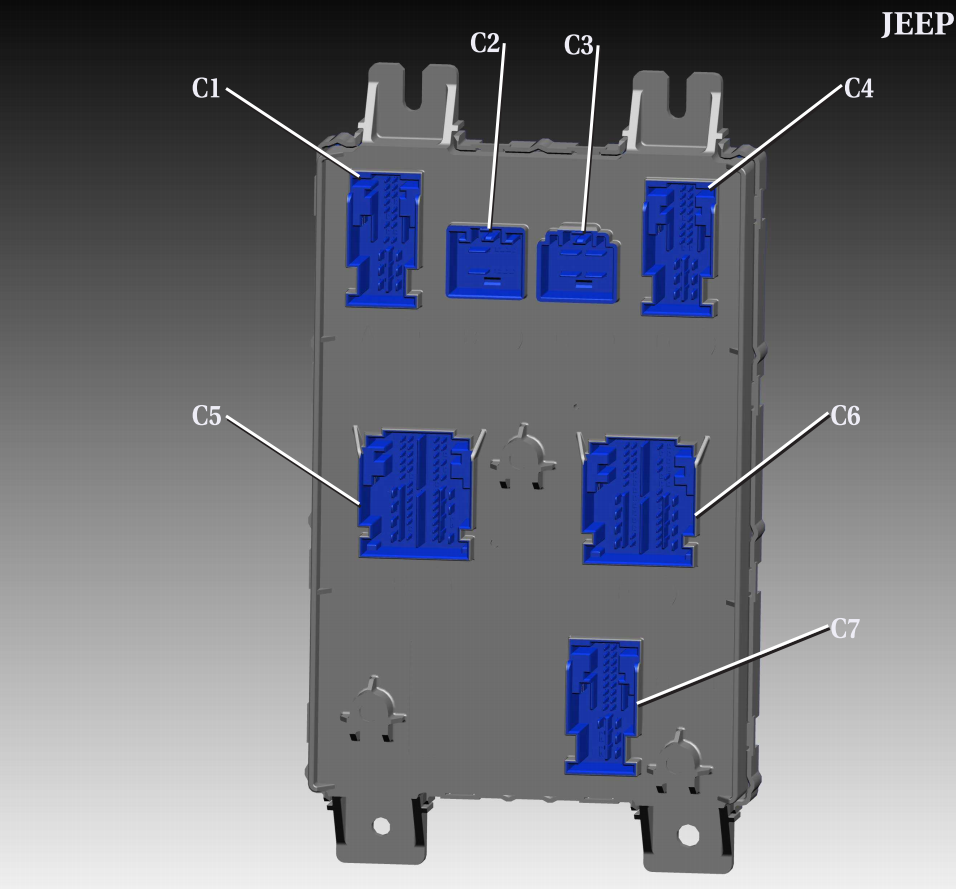
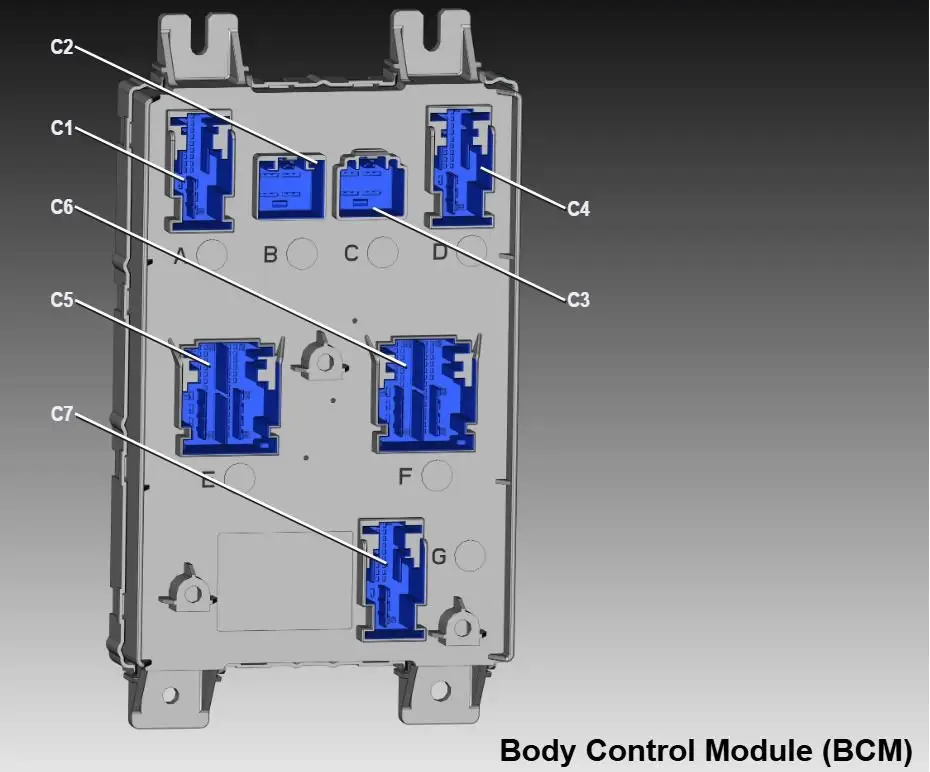
photo update

diff --git a/general/bcm_pn_light_conversion.rst b/general/bcm_pn_light_conversion.rst
@@ -261,5 +261,11 @@ correct BCM coding, additional wires, correct BCM terminals, EU rear lamps,
 and in the case of rear fog lamps, an EU specification light switch.
 
 
-.. image:: ../img/bcm/bcm_connector_overview.png
+    .. image:: ../img/bcm/bcm_connector_overview.png
+	:width: 200px
+
+    .. image:: ../img/bcm/bcm_pin_slk_12.png
+	:width: 200px
+
+    .. image:: ../img/bcm/bcm_pn_slk_28.png
 	:width: 200px